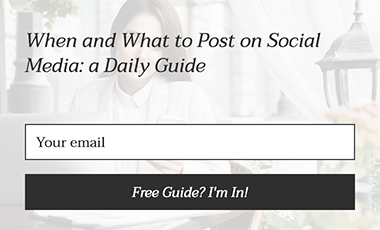
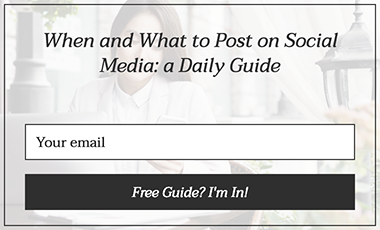
Border and sscreenshot updated

diff --git a/lib/themes/guadalajara/element.scss b/lib/themes/guadalajara/element.scss
@@ -361,11 +361,30 @@
     }
   }
   #hellobar-slider {
-    .hb-headline-text{
-      font-size: 1.4em;
+    .slider-content{
+      &:after {
+        @include frame;
+        margin: 0.25rem;
+        border-width: 1px;
+      }
+      .hb-headline-text{
+        font-size: 1.4em;
+      }
+      .hb-content-wrapper{
+        text-align: center;
+      }
+      .hb-text-wrapper {
+        padding-right: 0;
+      }
     }
-    .hb-text-wrapper {
-      padding-right: 0;
+  }
+  #hellobar-alert{
+    #hellobar-slider {
+      .slider-content{
+        .hb-content-wrapper{
+          text-align: center;
+        }
+      }
     }
   }
 }
